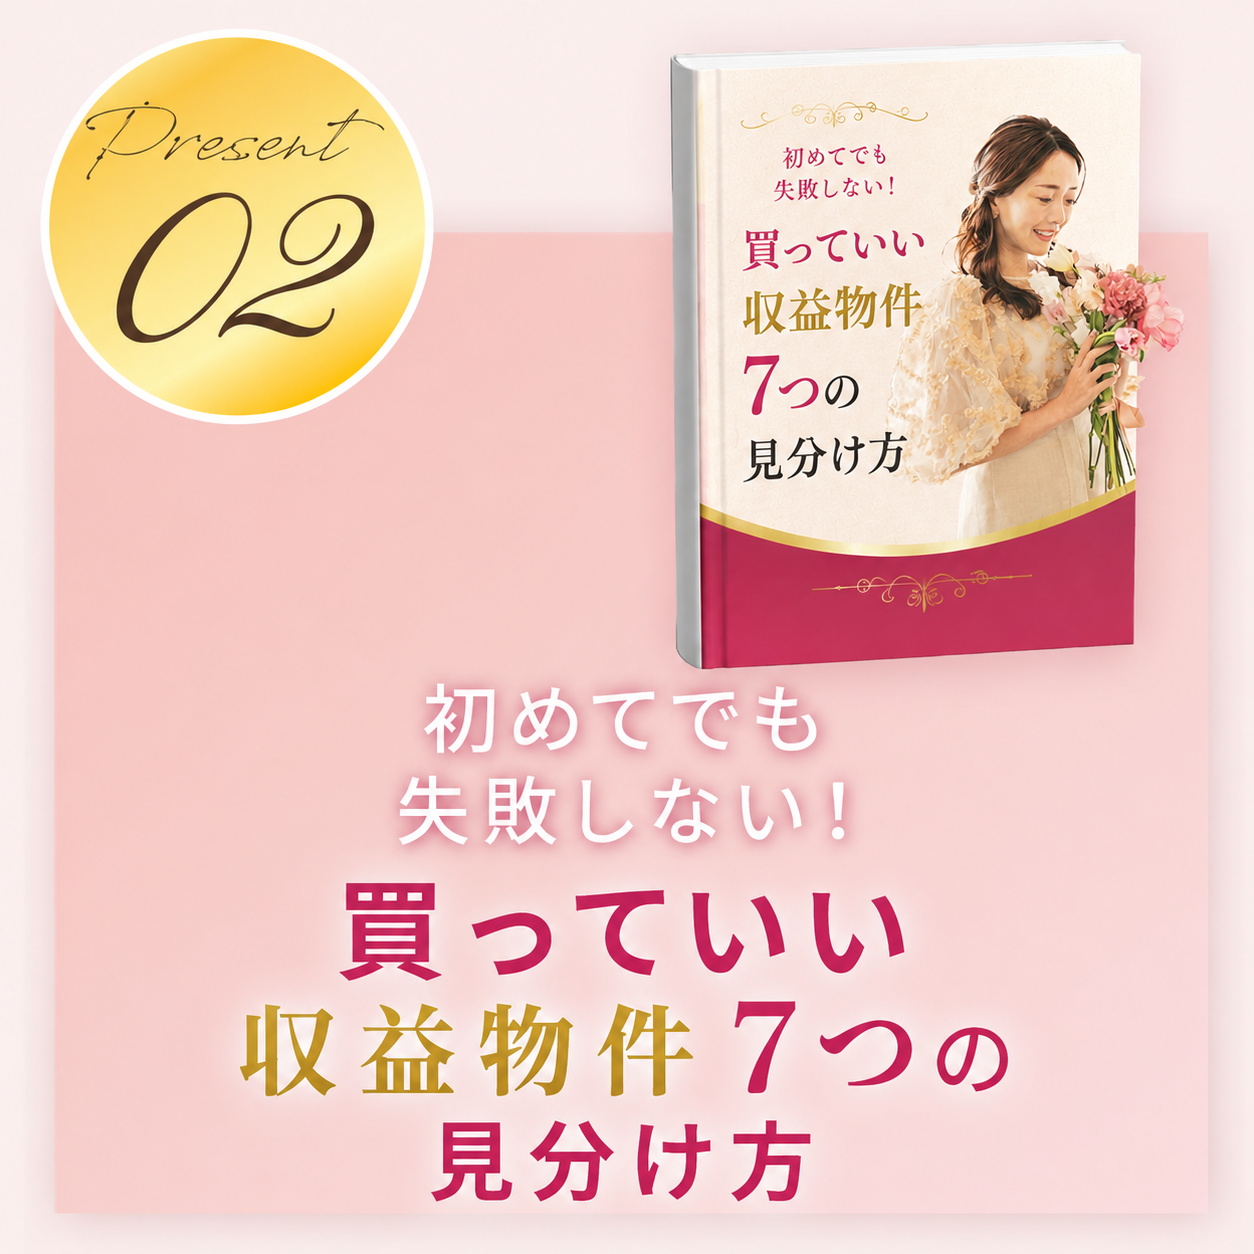
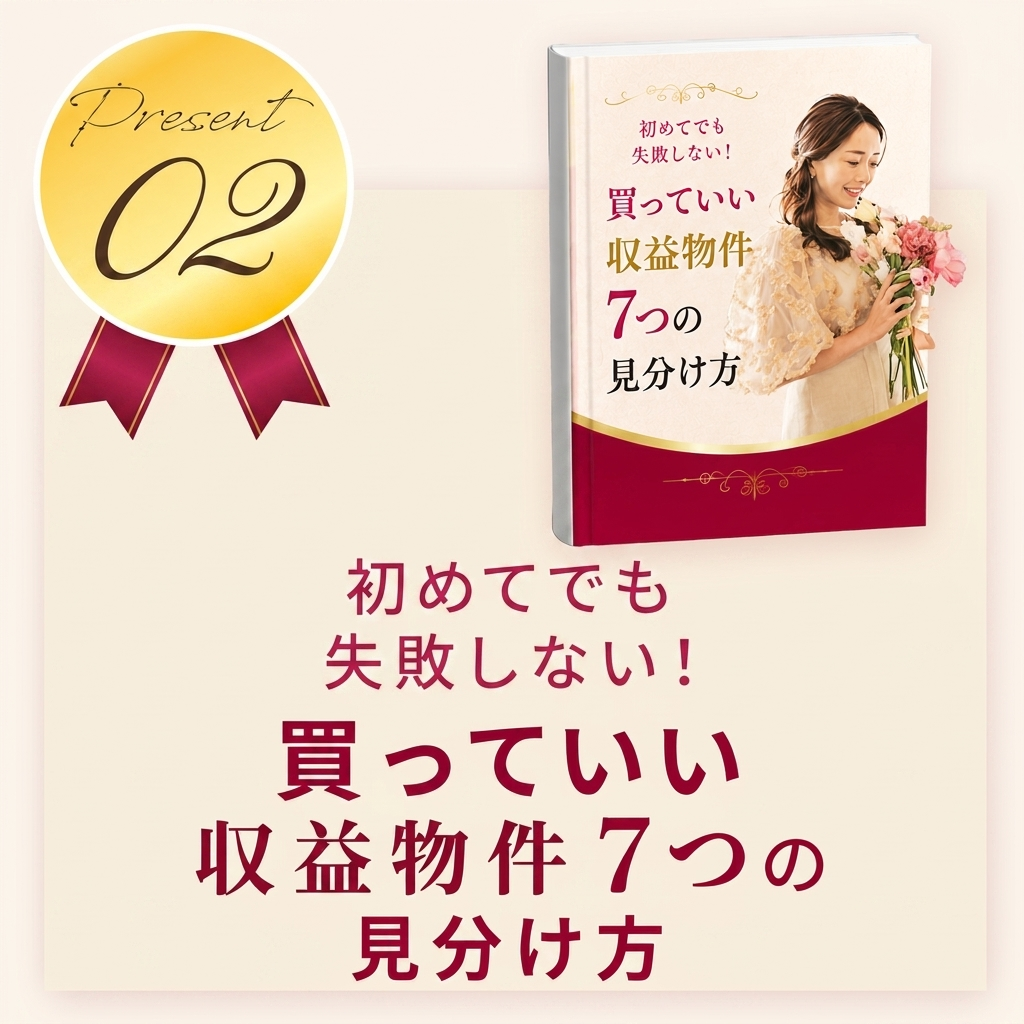
特典まわりを落ち着いた深紅×クリームに統一：プレゼント20枚をNano Banana一括色変換／20大特典バナーはPIL色変換（生成版は別人写真混入のため不採用）／実績バッジ背景をローズベージュ・数字をワインレッドに／特典セクションCSS背景をクリームに

diff --git a/index.html b/index.html
@@ -114,7 +114,7 @@ a{text-decoration:none;color:inherit;}
     radial-gradient(circle at 88% 30%,rgba(255,255,255,.45) 0 5px,transparent 6px),
     radial-gradient(circle at 8% 70%,rgba(255,255,255,.4) 0 4px,transparent 5px),
     radial-gradient(circle at 92% 84%,rgba(255,255,255,.4) 0 6px,transparent 7px),
-    linear-gradient(180deg,#FBDFE6 0%,#FCE9EE 40%,#FBDDE5 100%);
+    linear-gradient(180deg,#F7E9E3 0%,#FCF5EE 40%,#F6E7E0 100%);
   padding:32px 0 40px;
 }
 .tokuten-head-img{
@@ -886,29 +886,29 @@ footer .f-copy{margin-top:14px;font-size:12px;opacity:.95;}
     </div>
 
     <!-- さらに20大特典 -->
-    <img class="more-box-img" src="images/more-20.png?v=1" alt="さらに 勉強会参加で 20大特典をGET!" width="1740" height="904">
+    <img class="more-box-img" src="images/more-20.png?v=2" alt="さらに 勉強会参加で 20大特典をGET!" width="1740" height="904">
 
     <div class="present-grid">
-      <div class="pr-item"><img src="images/line-present-01.png?v=1" alt="月50万円の不労所得が手に入る！不動産投資はじめの一歩ガイド" loading="lazy"></div>
-      <div class="pr-item"><img src="images/line-present-02.png?v=1" alt="初めてでも失敗しない！買っていい収益物件7つの見分け方" loading="lazy"></div>
-      <div class="pr-item"><img src="images/line-present-03.png?v=1" alt="これを買うと地獄！後悔する物件ワースト10" loading="lazy"></div>
-      <div class="pr-item"><img src="images/line-present-04.png?v=1" alt="失敗確率がガクッと下がる！物件選びチェックリスト50" loading="lazy"></div>
-      <div class="pr-item"><img src="images/line-present-05.png?v=1" alt="プロだけが見ている！お宝物件の見抜き方5選" loading="lazy"></div>
-      <div class="pr-item"><img src="images/line-present-06.png?v=1" alt="自己資金1000万円から資産1億円を作る完全ロードマップ" loading="lazy"></div>
-      <div class="pr-item"><img src="images/line-present-07.png?v=1" alt="1000万円以上の差がつく！法人と個人どっちで買うべきか答え合わせ" loading="lazy"></div>
-      <div class="pr-item"><img src="images/line-present-08.png?v=1" alt="月100万円のキャッシュが入る！収益物件の選び方" loading="lazy"></div>
-      <div class="pr-item"><img src="images/line-present-09.png?v=1" alt="銀行が思わず貸したくなる決算書の作り方" loading="lazy"></div>
-      <div class="pr-item"><img src="images/line-present-10.png?v=1" alt="10年後の資産額がガラッと変わる融資戦略マップ" loading="lazy"></div>
-      <div class="pr-item"><img src="images/line-present-11.png?v=1" alt="融資が驚くほど通りやすくなる！銀行とのつき合い方" loading="lazy"></div>
-      <div class="pr-item"><img src="images/line-present-12.png?v=1" alt="誰も教えてくれない！女性起業家のための不動産融資の裏側" loading="lazy"></div>
-      <div class="pr-item"><img src="images/line-present-13.png?v=1" alt="働かなくてもお金が増える！キャッシュフロー経営の始め方" loading="lazy"></div>
-      <div class="pr-item"><img src="images/line-present-14.png?v=1" alt="お金が増える人だけがやっている！資産が拡大する5ステップ" loading="lazy"></div>
-      <div class="pr-item"><img src="images/line-present-15.png?v=1" alt="売上依存から卒業！一生お金に困らない資産家思考7つの習慣" loading="lazy"></div>
-      <div class="pr-item"><img src="images/line-present-16.png?v=1" alt="資産20億超を作った！お金が増え続ける使い方7ルール" loading="lazy"></div>
-      <div class="pr-item"><img src="images/line-present-17.png?v=1" alt="不況がきても揺るがない！女性起業家のお金の守り方" loading="lazy"></div>
-      <div class="pr-item"><img src="images/line-present-18.png?v=1" alt="年商1億から資産10億へ！迷わず進める資産形成マップ" loading="lazy"></div>
-      <div class="pr-item"><img src="images/line-present-19.png?v=1" alt="ほったらかしで利益が増え続ける！収益物件ポートフォリオの作り方" loading="lazy"></div>
-      <div class="pr-item"><img src="images/line-present-20.png?v=1" alt="売上を追う人生から卒業！働かなくてもお金が増える仕組みの作り方" loading="lazy"></div>
+      <div class="pr-item"><img src="images/line-present-01.png?v=2" alt="月50万円の不労所得が手に入る！不動産投資はじめの一歩ガイド" loading="lazy"></div>
+      <div class="pr-item"><img src="images/line-present-02.png?v=2" alt="初めてでも失敗しない！買っていい収益物件7つの見分け方" loading="lazy"></div>
+      <div class="pr-item"><img src="images/line-present-03.png?v=2" alt="これを買うと地獄！後悔する物件ワースト10" loading="lazy"></div>
+      <div class="pr-item"><img src="images/line-present-04.png?v=2" alt="失敗確率がガクッと下がる！物件選びチェックリスト50" loading="lazy"></div>
+      <div class="pr-item"><img src="images/line-present-05.png?v=2" alt="プロだけが見ている！お宝物件の見抜き方5選" loading="lazy"></div>
+      <div class="pr-item"><img src="images/line-present-06.png?v=2" alt="自己資金1000万円から資産1億円を作る完全ロードマップ" loading="lazy"></div>
+      <div class="pr-item"><img src="images/line-present-07.png?v=2" alt="1000万円以上の差がつく！法人と個人どっちで買うべきか答え合わせ" loading="lazy"></div>
+      <div class="pr-item"><img src="images/line-present-08.png?v=2" alt="月100万円のキャッシュが入る！収益物件の選び方" loading="lazy"></div>
+      <div class="pr-item"><img src="images/line-present-09.png?v=2" alt="銀行が思わず貸したくなる決算書の作り方" loading="lazy"></div>
+      <div class="pr-item"><img src="images/line-present-10.png?v=2" alt="10年後の資産額がガラッと変わる融資戦略マップ" loading="lazy"></div>
+      <div class="pr-item"><img src="images/line-present-11.png?v=2" alt="融資が驚くほど通りやすくなる！銀行とのつき合い方" loading="lazy"></div>
+      <div class="pr-item"><img src="images/line-present-12.png?v=2" alt="誰も教えてくれない！女性起業家のための不動産融資の裏側" loading="lazy"></div>
+      <div class="pr-item"><img src="images/line-present-13.png?v=2" alt="働かなくてもお金が増える！キャッシュフロー経営の始め方" loading="lazy"></div>
+      <div class="pr-item"><img src="images/line-present-14.png?v=2" alt="お金が増える人だけがやっている！資産が拡大する5ステップ" loading="lazy"></div>
+      <div class="pr-item"><img src="images/line-present-15.png?v=2" alt="売上依存から卒業！一生お金に困らない資産家思考7つの習慣" loading="lazy"></div>
+      <div class="pr-item"><img src="images/line-present-16.png?v=2" alt="資産20億超を作った！お金が増え続ける使い方7ルール" loading="lazy"></div>
+      <div class="pr-item"><img src="images/line-present-17.png?v=2" alt="不況がきても揺るがない！女性起業家のお金の守り方" loading="lazy"></div>
+      <div class="pr-item"><img src="images/line-present-18.png?v=2" alt="年商1億から資産10億へ！迷わず進める資産形成マップ" loading="lazy"></div>
+      <div class="pr-item"><img src="images/line-present-19.png?v=2" alt="ほったらかしで利益が増え続ける！収益物件ポートフォリオの作り方" loading="lazy"></div>
+      <div class="pr-item"><img src="images/line-present-20.png?v=2" alt="売上を追う人生から卒業！働かなくてもお金が増える仕組みの作り方" loading="lazy"></div>
     </div>
 
     <div class="cta-wrap" style="margin-top:36px;">
@@ -942,7 +942,7 @@ footer .f-copy{margin-top:14px;font-size:12px;opacity:.95;}
     <img class="profile-img" src="images/profile-head.png?v=1" alt="年商1億を資産10億へ。3児のママ経営者が実践する女性起業家の資産形成術。" width="1012" height="278">
     <img class="profile-img" src="images/kanshu-band.png?v=2" alt="事業と資産形成の両立を実現した 女性起業家 松田リエ監修。年商10億・資産20億超、40室以上の不動産を保有し、M&Aも経験した3児のママ経営者が監修。事業の利益を不動産や資産へ変え、自分が働かなくてもお金が増えていく仕組みを構築。「どう資産を作るか」を、リアルな経験に基づいて体系化した資産形成の無料講座です。" width="1122" height="1402">
     <img class="profile-img" src="images/rie-profile.png?v=2" alt="松田リエ Rie Matsuda。3児のママ経営者でありながら年商10億・資産20億超を実現／40室以上の不動産を保有し事業利益を資産へ変える仕組みを構築／M&Aも経験しお金を増やす経営を実践／累計受講生4,500名以上／YouTube登録者22万人・総フォロワー70万人超・テレビ出演16回以上／出版17冊・累計43万部突破" width="962" height="1725">
-    <img class="profile-img" src="images/jisseki.png?v=5" alt="実績画像・メディア掲載多数。テレビ出演写真／週刊女性・THE TIME,・美的.com・Yahoo!ニュース・小学館・女子SPA!・毎日新聞・朝日新聞・産経新聞・読売新聞・中日新聞・壮快ほか雑誌掲載多数。累計受講生4,500名以上／YouTube総登録者22万人以上／総フォロワー70万人突破／累計43万部突破／テレビ出演16回以上" width="724" height="1369">
+    <img class="profile-img" src="images/jisseki.png?v=6" alt="実績画像・メディア掲載多数。テレビ出演写真／週刊女性・THE TIME,・美的.com・Yahoo!ニュース・小学館・女子SPA!・毎日新聞・朝日新聞・産経新聞・読売新聞・中日新聞・壮快ほか雑誌掲載多数。累計受講生4,500名以上／YouTube総登録者22万人以上／総フォロワー70万人突破／累計43万部突破／テレビ出演16回以上" width="724" height="1369">
   </section>
 
   <!-- ============ 9-10. ビジョン〜ラスト（画像） ============ -->
